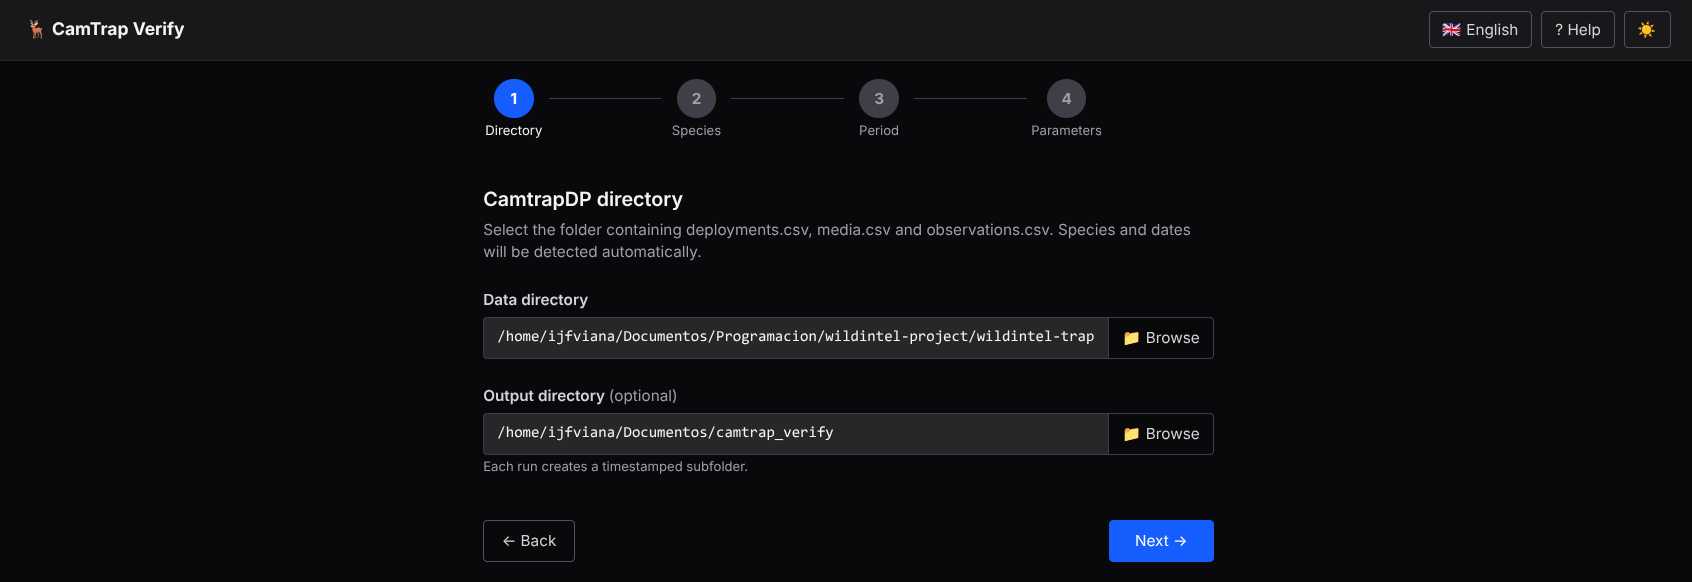
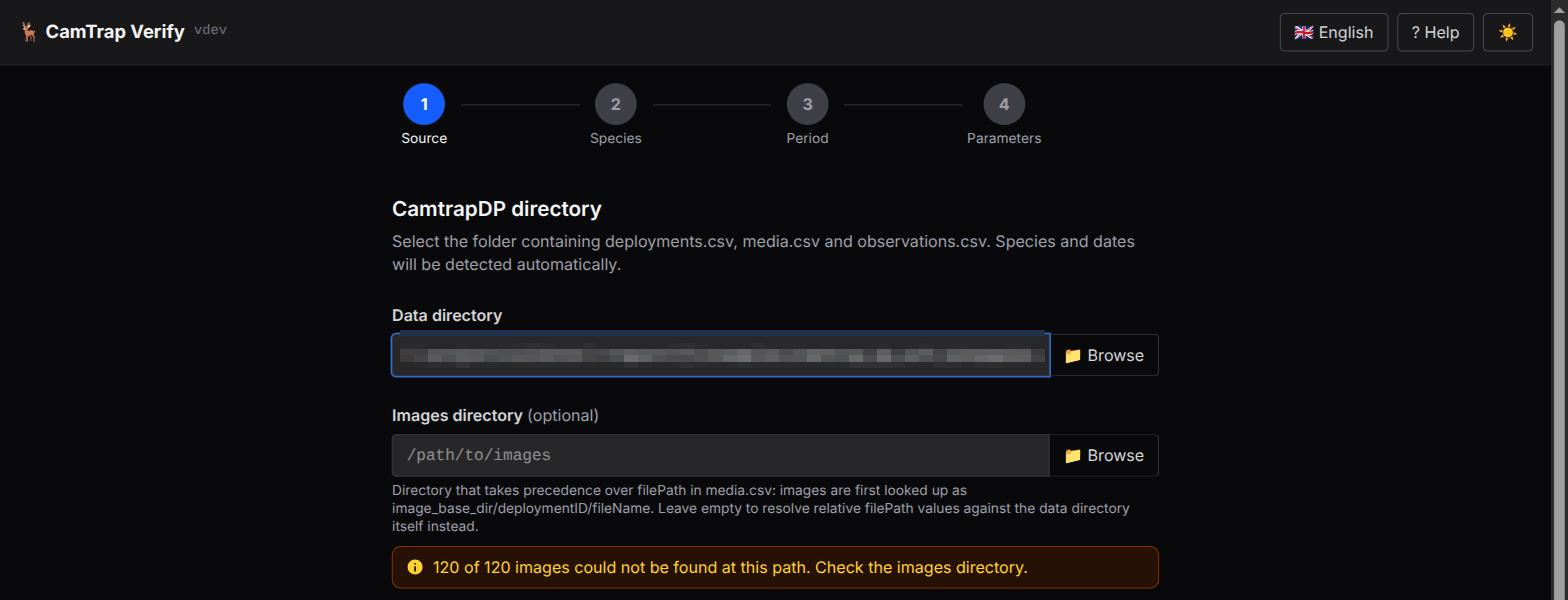
docs: rewrite Step 1 to match the current source/image-resolution flow
Step 1's four input sources (CamtrapDP, DeepFaune, custom CSV, Trapper)
were never introduced up front, and how image resolution actually
works (image_base_dir's structured/flat lookup, the fallback when it's
unset, and how remote filePath URLs fit into that) was scattered
across three now-inconsistent bullet points. Add an intro paragraph
linking to each Option, and a single note explaining the resolution
order end to end -- including that even a remote URL is checked
locally first when an Images directory is set, before ever hitting
the proxy.

Option B and C's "Convert and import" paragraphs, and the sentences
introducing their now-single-field forms, read as disconnected
fragments left over from when those forms also had an "Image root
directory" field (removed in the DeepFaune/Custom-CSV unification
commits) -- connect them into flowing prose instead.

Screenshots refreshed to match: setup-step1-directory.png and the new
setup-step1-flat-search.png show the current two-field CamtrapDP-
directory panel (the second with an Images directory set, so the
Search subfolders by file name toggle is visible); setup-step1-
deepfaune.png and setup-step1-csv.png show the current single-field
import forms, with the old "Image root directory" field gone. Local
paths visible in the directory-panel screenshots are pixelated.

diff --git a/docs/user-manual.md b/docs/user-manual.md
@@ -177,6 +177,14 @@ You can navigate between steps using the **← Back** and **Next →** buttons, 
 
 ### Step 1 — Source
 
+CamTrap Verify requires you to specify where the information to be verified (images, annotations, deployments, etc.) is located. Although the data is always processed internally in CamtrapDP format, CamTrap Verify supports the following input sources: [CamtrapDP](#option-a--camtrapdp-directory), [DeepFaune](#option-b--deepfaune-csv), [custom CSV](#option-c--custom-csv), and [Trapper](#option-d--trapper-instance).
+
+> **Note:** CamTrap Verify provides a dynamic mechanism for resolving where each image is physically located. This mechanism is based on whether you define an **Images directory**.
+>
+> If you do indicate it, the resolution procedure is the following: CamTrap Verify first looks for the image at `Images directory/deploymentID/fileName`. If that exact file isn't found and **Search subfolders by file name**{: #search-subfolders-by-file-name } is enabled, it instead searches the whole Images directory recursively for a file with that name (useful when photos are all loose in one folder, as in some TRAPPER downloads). Only if neither of those finds the image does CamTrap Verify fall back to the `filePath` column in `media.csv` itself: absolute paths are used as-is, relative paths are resolved against the Images directory, and remote `http://`/`https://` URLs are fetched directly, through the application's built-in proxy (so no CORS configuration is needed on your end) — but only as a last resort, after the local lookups above have already failed.
+>
+> If you do not indicate it, there is no separate images root to look in first, so resolution relies entirely on the `filePath` column: absolute paths are used as-is, relative paths are resolved against the CamtrapDP directory itself, and remote URLs are always fetched over the network, since there is nowhere local left to check.
+
 First choose where your data comes from: **Local filesystem** or a **Trapper instance**.
 
 ![Setup — Step 1: Data source](./img/user_manual/setup-step1-source.png)
@@ -195,29 +203,25 @@ Select the folder on your machine that contains the CamtrapDP files (`deployment
 *Local directory selection. The Browse button opens a folder picker.*
 
 - **Data directory** — path to your CamtrapDP folder. Use the **📁 Browse** button or type the path manually.
-- **Images directory** *(optional)* — base directory used to resolve relative `filePath` values in `media.csv`. Leave empty to use the data directory itself (default behaviour).
+- **Images directory** *(optional)* — base directory used to resolve relative `filePath` values in `media.csv`. Leave empty to use the data directory itself (default behaviour). Filling it in enables the [**Search subfolders by file name**](#search-subfolders-by-file-name) option (see above).
+
+![Setup — Step 1: Images directory and flat search](./img/user_manual/setup-step1-flat-search.png)
+*With an Images directory set, the **Search subfolders by file name** toggle appears.*
 
 After selecting the folder, the application reads species and date ranges automatically. Click **Next →** to proceed.
 
-> **Image paths:** three formats are supported in the `filePath` column of `media.csv`:
-> - **Relative paths** — resolved relative to the **Images directory** if provided, otherwise relative to the CamtrapDP directory itself.
-> - **Absolute paths** — used as-is.
-> - **HTTP/HTTPS URLs** — fetched through the application's built-in proxy, so no CORS configuration is needed.
-
 #### Option B — DeepFaune CSV
 
-If your data comes from [DeepFaune](https://www.deepfaune.cnrs.fr/), select the **DeepFaune CSV** format. The application converts the file to CamtrapDP format automatically.
+If your data comes from [DeepFaune](https://www.deepfaune.cnrs.fr/), select the **DeepFaune CSV** format. The application converts the file to CamtrapDP format automatically. For this reason, the form only asks for a single field, **DeepFaune results file**, where you provide the path to the `.csv` file exported from DeepFaune.
 
 ![Setup — Step 1: DeepFaune import](./img/user_manual/setup-step1-deepfaune.png)
 *DeepFaune import form.*
 
-- **DeepFaune results file** — path to the `.csv` exported from DeepFaune.
-
-Click **Convert and import →**. Once the conversion is complete, the wizard drops you into the same **Data directory** / **Images directory** screen as Option A above, with **Data directory** already filled in with the converted CamtrapDP folder — fill in **Images directory** there if the paths in your DeepFaune CSV are relative.
+Once you have indicated the path, click **Convert and import →**. Once the conversion is complete, the wizard drops you into the same **Data directory** / **Images directory** screen as Option A above, with **Data directory** already filled in with the converted CamtrapDP folder — fill in **Images directory** there if the paths in your DeepFaune CSV are relative.
 
 #### Option C — Custom CSV
 
-For any other classifier that exports a CSV, choose the **Custom CSV** format. You map the columns of your file to the fields required by CamtrapDP.
+For any other classifier that exports a CSV, choose the **Custom CSV** format. You map the columns of your file to the fields required by CamtrapDP. For this reason, the form first asks for a single field, **CSV file**, where you provide the path to your classifier's `.csv` export.
 
 ![Setup — Step 1: Custom CSV import](./img/user_manual/setup-step1-csv.png)
 *Custom CSV import form.*
@@ -250,7 +254,7 @@ For each label in your CSV, enter the corresponding scientific name (e.g. `Vulpe
 
 Use **Fill known labels** to auto-fill any remaining entries that match the built-in label dictionary.
 
-Click **Convert and import →**. Once the conversion is complete, the wizard drops you into the same **Data directory** / **Images directory** screen as Option A above, with **Data directory** already filled in with the converted CamtrapDP folder — fill in **Images directory** there if the paths in your CSV are relative.
+Once you have mapped the columns and the species, click **Convert and import →**. Once the conversion is complete, the wizard drops you into the same **Data directory** / **Images directory** screen as Option A above, with **Data directory** already filled in with the converted CamtrapDP folder — fill in **Images directory** there if the paths in your CSV are relative.
 
 #### Option D — Trapper instance
 
